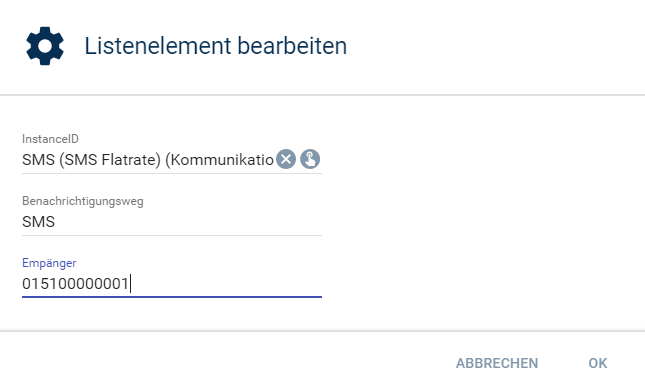
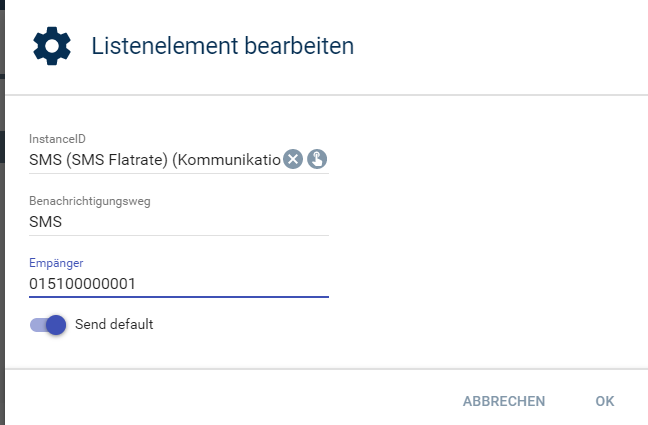
Form um Standartweg erweitert Locale angepasst Readme angepasst

Changed region(s): [[0.0, 0.0, 1.0, 1.0], [0.7132, 0.8878, 0.8372, 0.9796], [0.8992, 0.9184, 0.9612, 0.949]]

diff --git a/NotificationBoard/module.php b/NotificationBoard/module.php
@@ -144,17 +144,20 @@
             $data->elements[0]->values[] = Array(
               "instanceID"      => @IPS_GetInstanceListByModuleID ("{375EAF21-35EF-4BC4-83B3-C780FD8BD88A}")[0],
               "NotificationWay" => "E-Mail",
-              "Receiver"        => "deine@mail.de"
+              "Receiver"        => "deine@mail.de",
+              "SendDefault"     => false
             );
             $data->elements[0]->values[] = Array(
               "instanceID"      => @IPS_GetInstanceListByModuleID ("{3565B1F2-8F7B-4311-A4B6-1BF1D868F39E}")[0],
               "NotificationWay" => "WebFront SendNotification",
-              "Receiver"        => ""
+              "Receiver"        => "",
+              "SendDefault"     => false
             );    
             $data->elements[0]->values[] = Array(
               "instanceID"      => @IPS_GetInstanceListByModuleID ("{3565B1F2-8F7B-4311-A4B6-1BF1D868F39E}")[0],
               "NotificationWay" => "WebFront PopUp",
-              "Receiver"        => ""
+              "Receiver"        => "",
+              "SendDefault"     => false
             );                    
           } else {
             //Annotate existing elements
@@ -163,7 +166,8 @@
             foreach($notificationWays as $treeRow) {
               $data->elements[0]->values[] = Array(
                 "NotificationWay" => $treeRow->NotificationWay,
-                "Receiver"        => $treeRow->Receiver
+                "Receiver"        => $treeRow->Receiver,
+                "SendDefault"     => $treeRow->SendDefault
               );				
             }			
           }
@@ -392,6 +396,7 @@
             $notifyWayNameVAR = $notifyWayName;
             $notifyWayNameToIdent = $this->sonderzeichen($NotificationSubject."_".$notifyWayName);
             $notifyWayNameToIdent = $this->specialCharacters($notifyWayNameToIdent);
+            $defaultSend = $notifiWay->SendDefault;
 
             // Variablen anlegen wenn es dummy Modul ist
             $InstanceIdDummy = @IPS_GetInstance($dummyId);
@@ -399,6 +404,9 @@
               $variableId = @IPS_GetVariableIDByName($notifyWayNameVAR, $dummyId);
               if($variableId===false) {
                 $variableId = $this->CreateVariable ($notifyWayNameToIdent, $notifyWayNameVAR, 0, $dummyId, 0, "STNB.SendButton", $VarIdActionsScript);
+                
+                if($defaultSend==true)
+                  SetValue($variableId,true);
                 
                 // Variablenprofil aktualisieren
                 if($this->ReadPropertyBoolean("CreateNotifyTypes")==true) {
@@ -447,8 +455,8 @@
                 "StatusCreateDummy"     => $ChkCreateDid              // HelperVar ob dummy erstellt wurde
                 );
 
-
-            if(GetValue($variableId) == true && $ChkCreateDid==0) {
+            // Nur senden wenn Variable aktiv UND kein Dummy erstellt ORDER der DEFAULT WEG true ist
+            if(GetValue($variableId) == true && ($ChkCreateDid==0 || $defaultSend===true)) {
               $Status = IPS_RunScriptEx($VarIdRunScript, $RunScriptArray);
               
               // Status in Array schreiben und Mergen
@@ -499,7 +507,8 @@
         private function CreateNewNotifications() {
           // Benachrichtigung auslesen
           $notificationWays = json_decode($this->ReadPropertyString("notificationWays"));
-          
+          IPS_LogMessage("test",json_encode($notificationWays));
+
           // Script Ids holen
           $VarIdActionsScript = IPS_GetObjectIDByName("Aktionsskript",$this->InstanceID);
           $VarIdRunScript = IPS_GetObjectIDByName("run_NotifyBoard",$this->InstanceID);
@@ -515,11 +524,12 @@
                 $notifyWayNameVAR = $notifyWayName;
                 $notifyWayNameToIdent = $this->sonderzeichen(IPS_GetName($cId)."_".$notifyWayName);
                 $notifyWayNameToIdent = $this->specialCharacters($notifyWayNameToIdent);
+                $defaultSend = $notifiWay->SendDefault;
 
                 // Variablen anlegen wenn ein Dummy Modul
                 $InstanceIdDummy = IPS_GetInstance($cId);
                 if($InstanceIdDummy['ModuleInfo']['ModuleID'] == "{485D0419-BE97-4548-AA9C-C083EB82E61E}") {  #Prüfen ob Mudul ein DUmmy Modul ist
-                  $this->CreateVariable ($notifyWayNameToIdent, $notifyWayNameVAR, 0, $cId, 0, "STNB.SendButton", $VarIdActionsScript);
+                  $variableId = $this->CreateVariable ($notifyWayNameToIdent, $notifyWayNameVAR, 0, $cId, 0, "STNB.SendButton", $VarIdActionsScript);
                 }
               }
             }

diff --git a/NotificationBoard/README.md b/NotificationBoard/README.md
@@ -95,6 +95,7 @@ Danach im Modul auf Übernehmen klicken.
 #### Hinzufügen weitere Instanz (z.B. SMS) und Anpassung Skript run_NotifyBoard
 
 Ich füge hier nun ein SMS Modul hinzu und übernehme dieses im Modul...
+Mit der Checkbox Standart Senden ein, wird der Benachrichtigungsweg standartmäßig eingeschaltet bei der erstanlage.
 
 ![InstanzHinzufuegenSMS](img/InstanzHinzufuegenSMS.png?raw=true)
 
